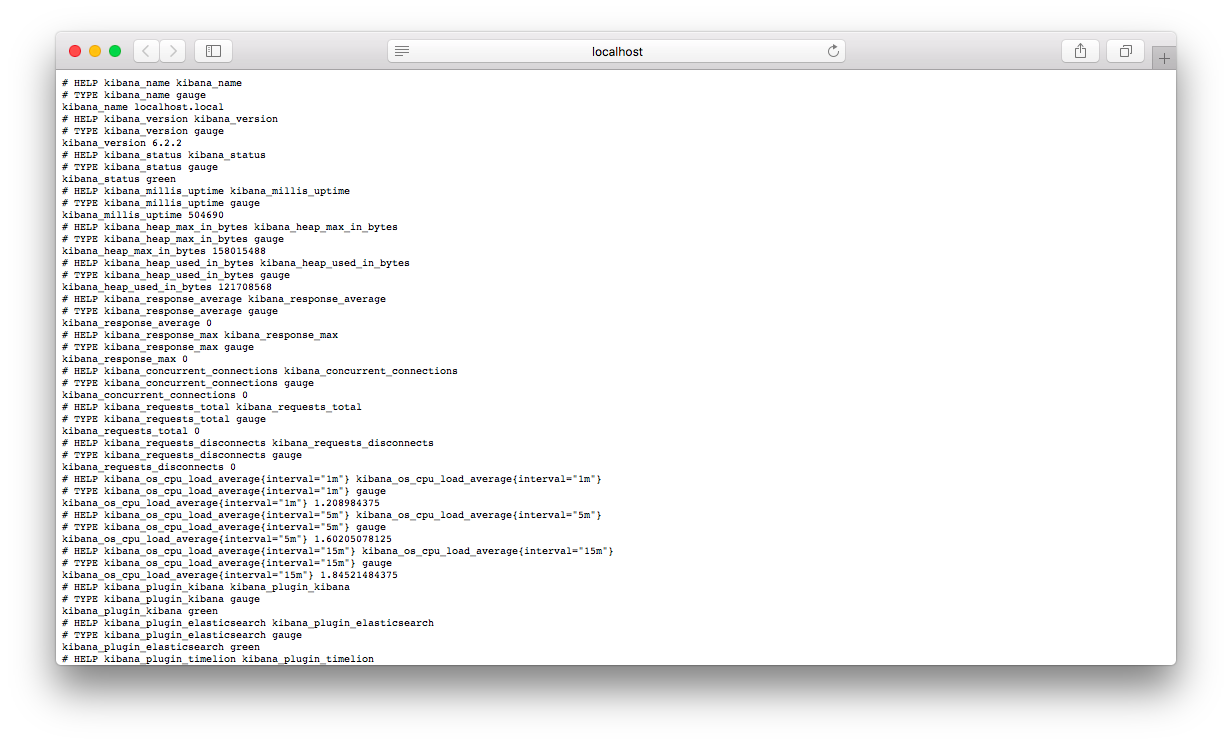
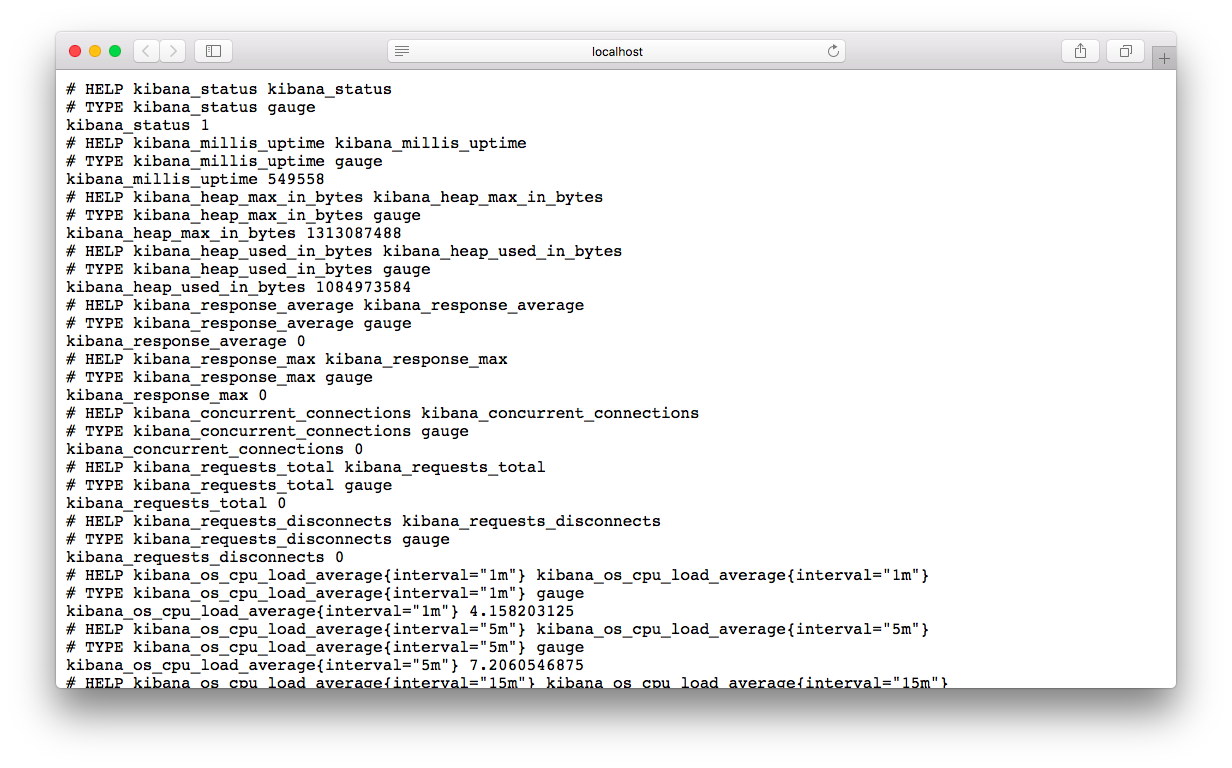
Fix numerics.

Changed region(s): [[0.0308, 0.0309, 0.7711, 0.8953], [0.8636, 0.0309, 0.9562, 0.0926]]

diff --git a/server/routes/formatter.js b/server/routes/formatter.js
@@ -2,9 +2,7 @@
 export default function (info) {
     let metrics = {};
 
-    metrics['kibana_name'] = info.name;
-    metrics['kibana_version'] = info.version.number;
-    metrics['kibana_status'] = info.status.overall.state;
+    metrics['kibana_status'] = convert_state_to_number(info.status.overall.state);
     metrics['kibana_millis_uptime'] = info.metrics.uptime_in_millis;
     metrics['kibana_heap_max_in_bytes'] = info.metrics.process.mem.heap_max_in_bytes || 0;
     metrics['kibana_heap_used_in_bytes'] = info.metrics.process.mem.heap_used_in_bytes || 0;
@@ -19,10 +17,22 @@ export default function (info) {
 
     for(var key in info.status.statuses) {
         const plugin_name = info.status.statuses[key]['id'].split(/:|@/)[1];
-        metrics['kibana_plugin_' + plugin_name] = info.status.statuses[key]['state'];
+        metrics['kibana_plugin_' + plugin_name] = convert_state_to_number(info.status.statuses[key]['state']);
     }
 
     return prometheus_style_formatter(metrics);
+}
+
+function convert_state_to_number(state) {
+    if (state == "green") {
+        return 1;
+    }
+    else if (state == "yellow") {
+        return 0.5;
+    }
+    else {
+        return 0;
+    }
 }
 
 function prometheus_style_formatter(payload) {
